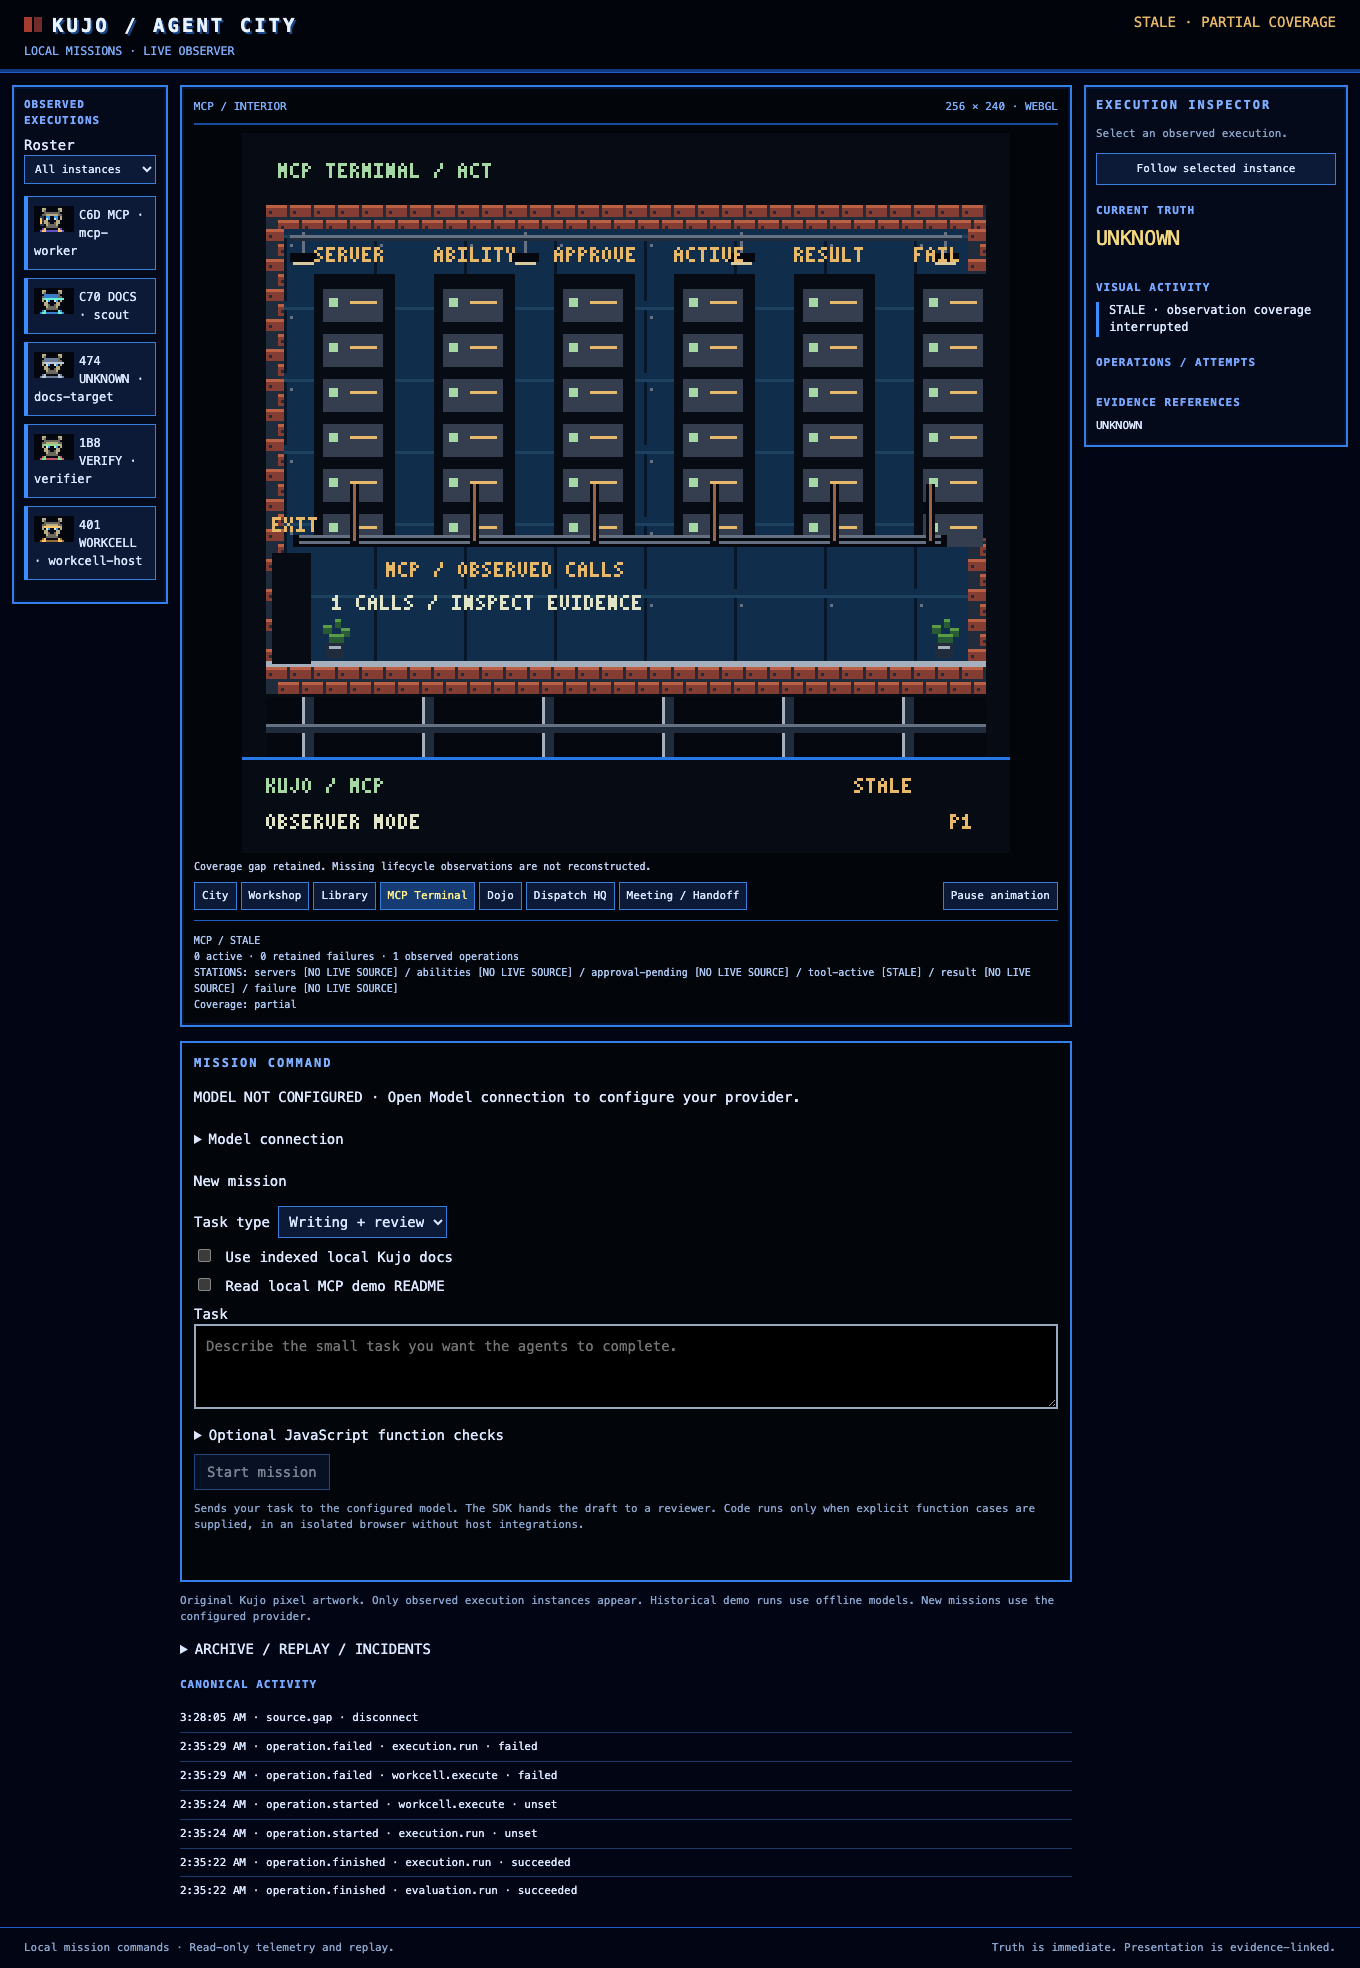
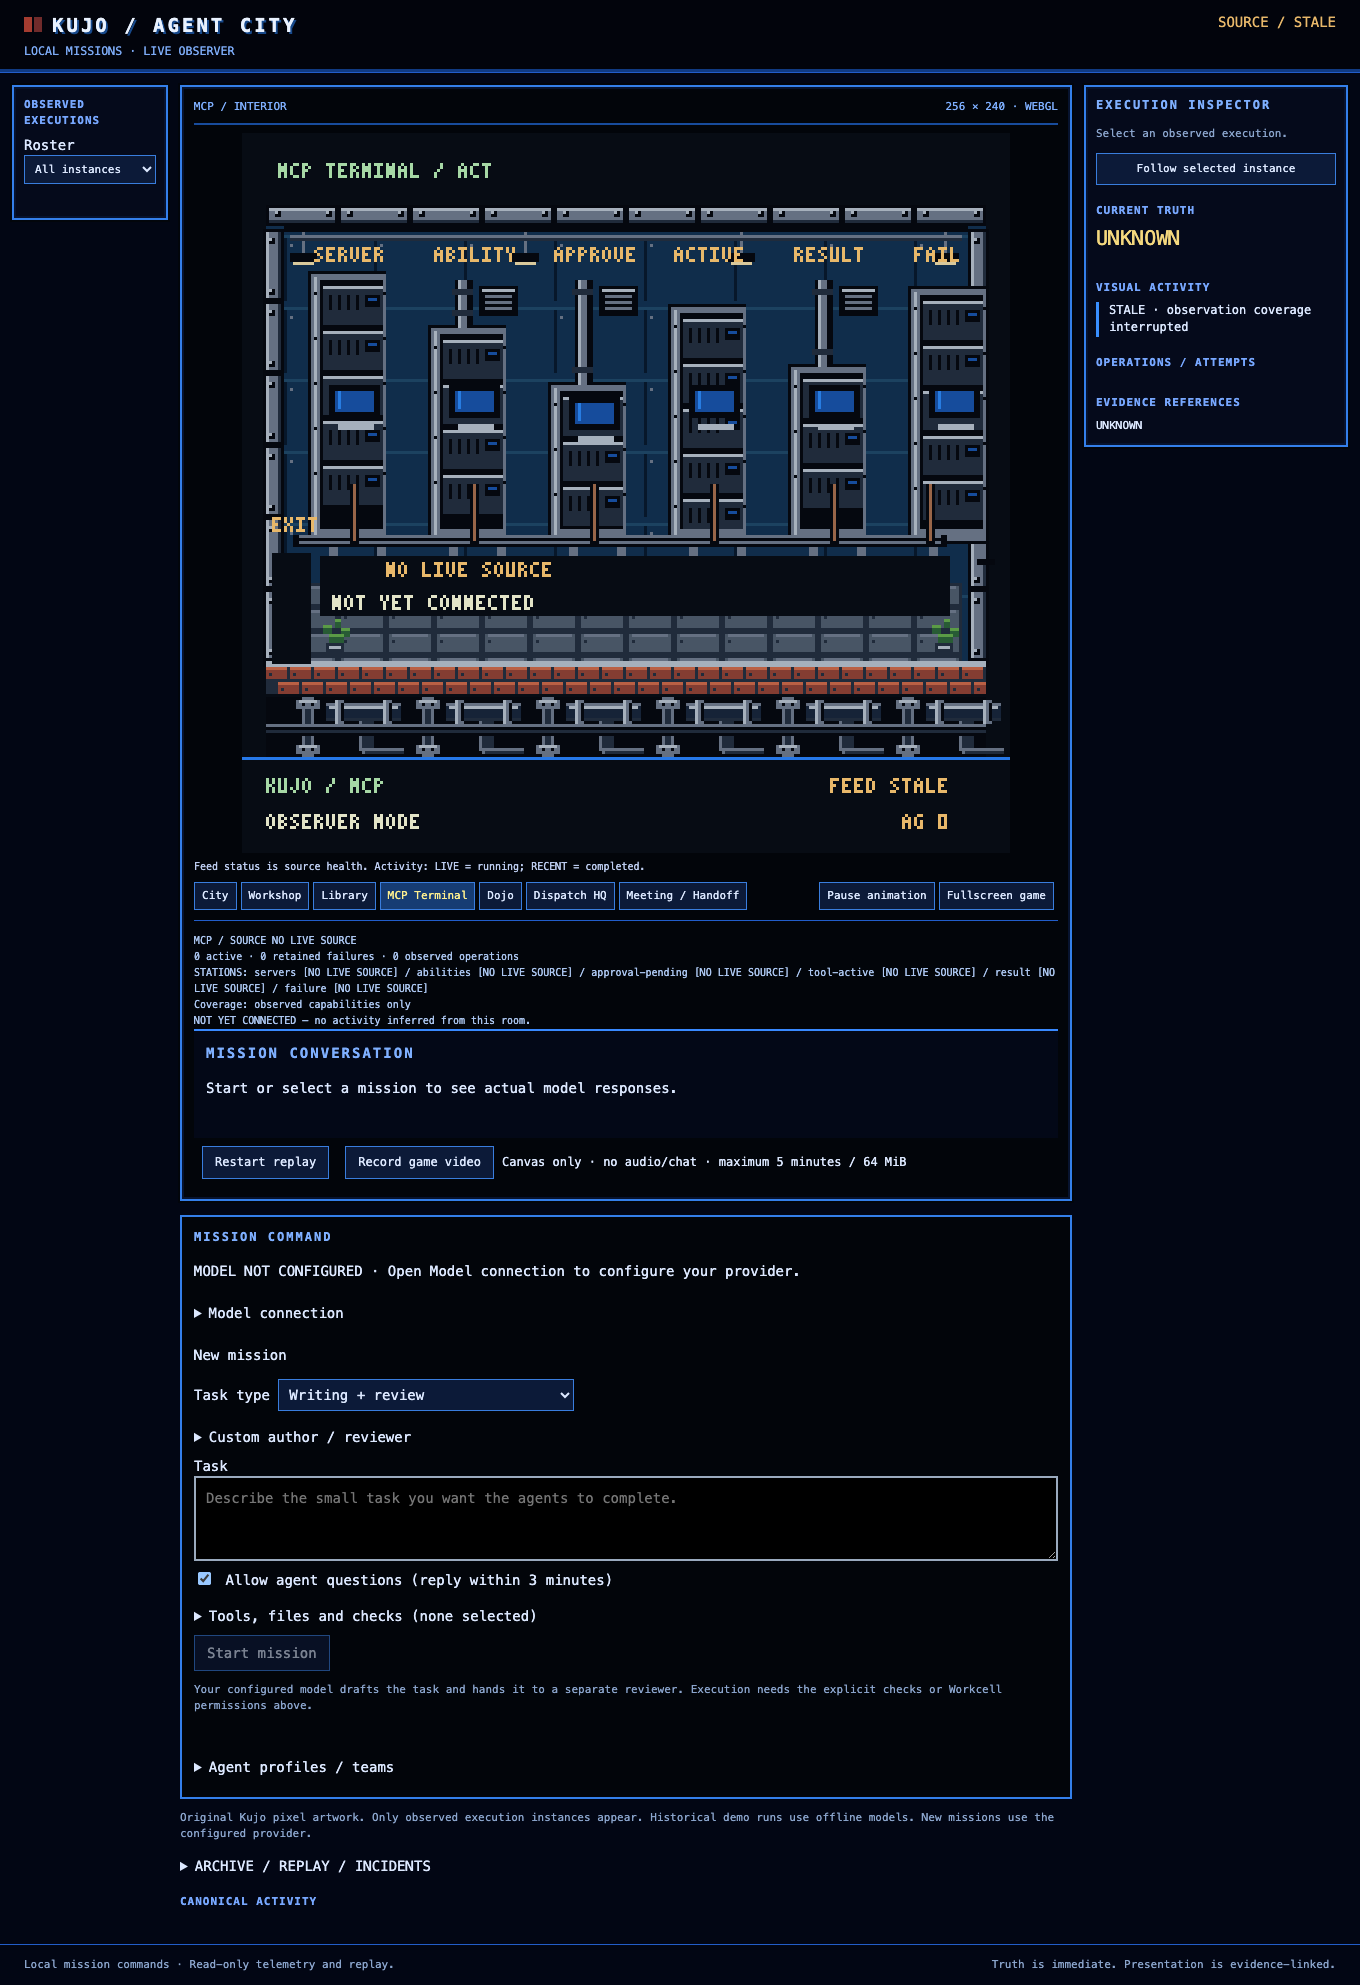
Record compact composer and expanded browser acceptance evidence

diff --git a/evidence/game-view/REFERENCE-ACCEPTANCE.md b/evidence/game-view/REFERENCE-ACCEPTANCE.md
@@ -12,7 +12,7 @@ No synthetic workers are presented as product proof.
 | Reference direction | Current evidence | Assessment |
 | --- | --- | --- |
 | Photo1: compact waterfront neighborhood, rooftops, paths and building signs | [City](city.png): six distinct facades, canals, authored thresholds, street markings, framed area title | Implemented at256×208; grid layout and roof/detail density remain simpler than the reference |
-| Photo2: black/blue command-center framing, roster and selected-agent surfaces | [Whole page](whole-page.png): left roster, dominant central canvas, right truth inspector and blue framing | Default unconfigured layout captured; long task form below the world still needs a more compact presentation and a real selected-agent comparison |
+| Photo2: black/blue command-center framing, roster and selected-agent surfaces | [Whole page](whole-page.png): left roster, dominant central canvas, right truth inspector and blue framing | Default task composer now measures291px with optional tools grouped; real selected-agent/communication comparison remains |
 | Photo3: industrial side-view architecture, utility framing, multiple levels | [Workshop](workshop.png), [Library](library.png): riveted steel borders, brick floors, authored upper stations/ladders | Implemented; original compact geometry, not a traced room |
 | Photo4: framed briefing wall and shared meeting table | [Meeting](meeting.png): steel beams, lockers, pendant lights and printed plan | Passive scene fixtures implemented; no invented participants, dialogue or meetings |
 | Photo5: dense knowledge shelves, desks, lamps and upper gallery | [Library](library.png): separate source stations, book bays, globe and reading tables | Implemented with fewer texture details than the higher-resolution concept |
@@ -26,8 +26,8 @@ unchanged truth, no write actions, keyboard fullscreen entry/exit, integer scale
 build. No map/portal/station route, semantic scheduling or runtime business behavior
 changed. This run is not evidence of new live agent traversal or final tool video.
 
-Still required for final visual acceptance: compact task/onboarding presentation,
-whole-page comparison with real selected executions and actual communication, motion review across the
+Still required for final visual acceptance: whole-page comparison with real
+selected executions and actual communication, motion review across the
 real task sequence, and resolution of the remaining density/fidelity differences.
 The broader release checklist remains open.
 
@@ -36,3 +36,23 @@ in CI37737469181, including110tests and all4installed platforms. The follow-up
 whole-page capture changes only the evidence harness, not application behavior.
 The actual empty-state screenshot confirms the central world remains dominant,
 but the long task form below it is a remaining command-center usability gap.
+
+Task composer qualification at af34958: the prompt and custom reviewer choice stay
+visible; optional files/tools/execution/checks use a keyboard-accessible disclosure
+with selected-option count. Default form height is291.375px at1280px viewport.
+Source/Workcell grants remain explicit, survive closing the disclosure for
+submission, and reset after submission/follow-up; retained JavaScript contracts
+are deliberately exposed on continuation. This supersedes the long-form gap
+above, not the remaining real-execution/reference fidelity qualification.
+
+Local verify110tests, consent browser checks, keyboard Workcell setup and final
+seven-scene/layout/fallback proof pass. An earlier visual proof was interrupted
+by map regeneration triggering Vite HMR during concurrent verification; retained
+CaseFile2026-10-08-023820-compactuivisualhmr. Run map/build verification before
+browser evidence capture. No live model execution was needed for this UI change.
+
+CI37739021708 ataf34958 passes all5jobs. Follow-up8484169 modernizes the old
+continuation browser harness to use the existing browser locator and current
+keyboard field order, explicitly checks visibility of the retained contract,
+and adds that proof to CI. CI37739543368 passes all5jobs including that expanded
+browser gate. Local source-grant/Workcell-consent and setup proofs also pass.

diff --git a/RELEASE-CHECKLIST.md b/RELEASE-CHECKLIST.md
@@ -604,3 +604,16 @@ Framing CI37737469181 atc2aad74 passes all5jobs and four installed platforms.
 Current whole-page empty-state capture confirms the world/roster/inspector layout
 but exposes the long task form below the game. A compact task/onboarding surface
 and real selected-execution/motion comparison remain required for visual acceptance.
+
+Compact composer checkpointaf34958: default task entry now measures291px; optional
+source files/tools/Workcell/checks are grouped with a visible selection count.
+Explicit grants survive disclosure closure for submission and reset on new work;
+retained function contracts are shown on follow-up. Local110tests and keyboard/
+consent/setup/layout/fallback checks pass. CI37739021708 passes all5jobs/four
+installed platforms. This closes the long-form UI gap; real selected-execution
+visual comparison, broader workflow and final release acceptance remain open.
+
+Continuation follow-up8484169 refreshes the old browser locator/keyboard fixture
+and adds it to CI. CI37739543368 passes all5jobs, including the retained-contract,
+keyboard,320px and DOM-only task checks alongside current onboarding/fullscreen
+proofs. App behavior is unchanged fromaf34958. No live model or long soak ran.
